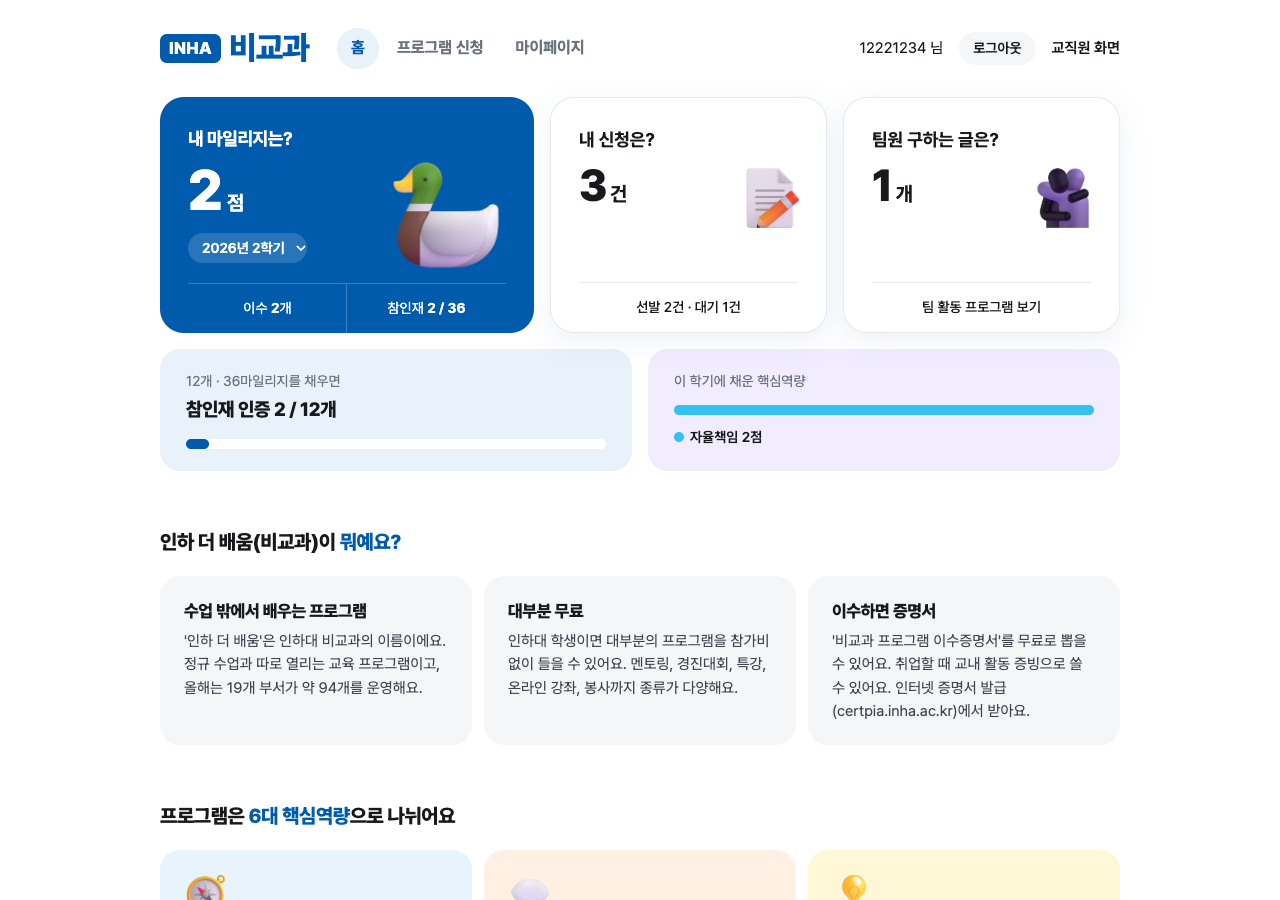
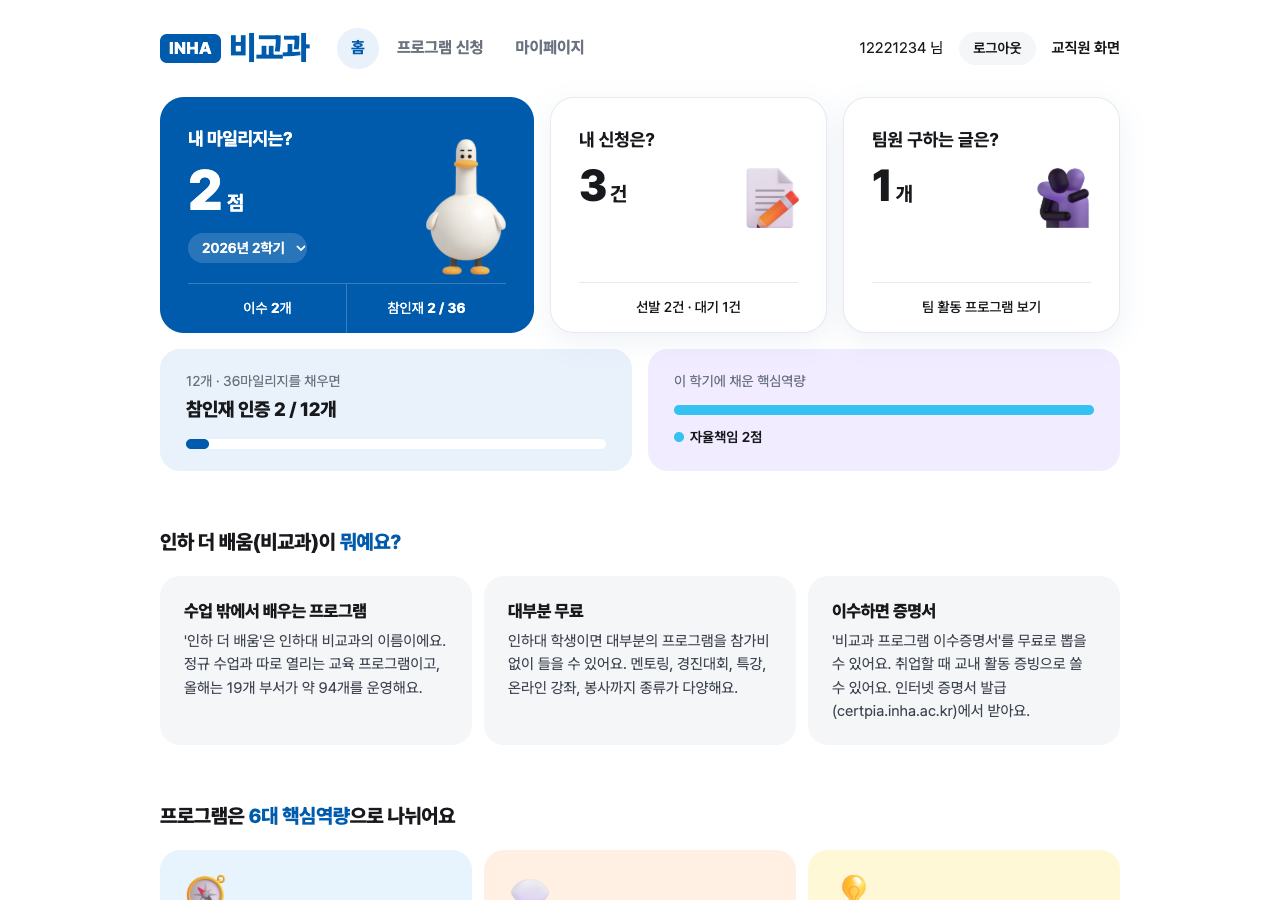
style: 홈의 오리 그림을 인하대 마스코트 인덕으로 교체

Changed region(s): [[0.3125, 0.1556, 0.4062, 0.3111]]

diff --git a/index.html b/index.html
@@ -5,7 +5,7 @@
 <meta name="viewport" content="width=device-width, initial-scale=1">
 <title>인하 비교과 마일리지</title>
 <link rel="stylesheet" href="https://cdn.jsdelivr.net/gh/orioncactus/pretendard@v1.3.9/dist/web/variable/pretendardvariable-dynamic-subset.min.css">
-<link rel="stylesheet" href="css/style.css?v=14">
+<link rel="stylesheet" href="css/style.css?v=15">
 </head>
 <body>
 <main>
@@ -34,7 +34,8 @@
           <select id="term" aria-label="내 마일리지 학기"></select>
         </div>
         <!-- 공식 캐릭터 대신 쓰는 임시 그림 (Fluent Emoji 오리). 허락받은 캐릭터 파일이 오면 교체. -->
-        <img class="mascot" src="assets/icons/duck.png" alt="">
+        <!-- 인하대 공식 마스코트 인덕(저작권: 인하대학교). 사용 조건은 assets/mascot/README.txt 참고. -->
+        <img class="mascot" src="assets/mascot/induck-front.png" alt="인하대학교 마스코트 인덕">
       </div>
       <ul class="hero-links">
         <li>이수 <b id="heroCount">0</b>개</li>
@@ -160,9 +161,9 @@
       확정 마일리지는 인하포털 → 학사행정 → 비교과과정에서 확인하세요.</p>
   </div>
 </footer>
-<script src="js/data.js?v=14"></script>
-<script src="js/logic.js?v=14"></script>
-<script src="js/common.js?v=14"></script>
-<script src="js/home.js?v=14"></script>
+<script src="js/data.js?v=15"></script>
+<script src="js/logic.js?v=15"></script>
+<script src="js/common.js?v=15"></script>
+<script src="js/home.js?v=15"></script>
 </body>
 </html>

diff --git a/mypage.html b/mypage.html
@@ -5,7 +5,7 @@
 <meta name="viewport" content="width=device-width, initial-scale=1">
 <title>마이페이지 · 인하 비교과 마일리지</title>
 <link rel="stylesheet" href="https://cdn.jsdelivr.net/gh/orioncactus/pretendard@v1.3.9/dist/web/variable/pretendardvariable-dynamic-subset.min.css">
-<link rel="stylesheet" href="css/style.css?v=14">
+<link rel="stylesheet" href="css/style.css?v=15">
 </head>
 <body>
 <main class="my">
@@ -59,9 +59,9 @@
   <ul id="myComments" class="posts" aria-labelledby="comments-title"></ul>
   <p id="commentsEmpty" class="empty">아직 쓴 댓글이 없어요.</p>
 </main>
-<script src="js/data.js?v=14"></script>
-<script src="js/logic.js?v=14"></script>
-<script src="js/common.js?v=14"></script>
-<script src="js/mypage.js?v=14"></script>
+<script src="js/data.js?v=15"></script>
+<script src="js/logic.js?v=15"></script>
+<script src="js/common.js?v=15"></script>
+<script src="js/mypage.js?v=15"></script>
 </body>
 </html>

diff --git a/programs.html b/programs.html
@@ -5,7 +5,7 @@
 <meta name="viewport" content="width=device-width, initial-scale=1">
 <title>프로그램 신청 · 인하 비교과 마일리지</title>
 <link rel="stylesheet" href="https://cdn.jsdelivr.net/gh/orioncactus/pretendard@v1.3.9/dist/web/variable/pretendardvariable-dynamic-subset.min.css">
-<link rel="stylesheet" href="css/style.css?v=14">
+<link rel="stylesheet" href="css/style.css?v=15">
 </head>
 <body>
 <main>
@@ -53,9 +53,9 @@
       확정 마일리지는 인하포털 → 학사행정 → 비교과과정에서 확인하세요.</p>
   </div>
 </footer>
-<script src="js/data.js?v=14"></script>
-<script src="js/logic.js?v=14"></script>
-<script src="js/common.js?v=14"></script>
-<script src="js/programs.js?v=14"></script>
+<script src="js/data.js?v=15"></script>
+<script src="js/logic.js?v=15"></script>
+<script src="js/common.js?v=15"></script>
+<script src="js/programs.js?v=15"></script>
 </body>
 </html>

diff --git a/team.html b/team.html
@@ -5,7 +5,7 @@
 <meta name="viewport" content="width=device-width, initial-scale=1">
 <title>팀원 구하기 · 인하 비교과 마일리지</title>
 <link rel="stylesheet" href="https://cdn.jsdelivr.net/gh/orioncactus/pretendard@v1.3.9/dist/web/variable/pretendardvariable-dynamic-subset.min.css">
-<link rel="stylesheet" href="css/style.css?v=14">
+<link rel="stylesheet" href="css/style.css?v=15">
 </head>
 <body>
 <main>
@@ -32,8 +32,8 @@
   <ul id="posts" class="posts" aria-labelledby="posts-title"></ul>
   <p id="empty" class="empty">아직 글이 없어요. 첫 글을 써보세요.</p>
 </main>
-<script src="js/data.js?v=14"></script>
-<script src="js/logic.js?v=14"></script>
-<script src="js/team.js?v=14"></script>
+<script src="js/data.js?v=15"></script>
+<script src="js/logic.js?v=15"></script>
+<script src="js/team.js?v=15"></script>
 </body>
 </html>

diff --git a/css/style.css b/css/style.css
@@ -62,7 +62,7 @@ input:not([type=checkbox], [type=radio]):focus-visible, textarea:focus-visible, 
 .total small { font-size: 1.25rem; font-weight: 700; letter-spacing: 0; }
 .hero select { font: inherit; font-size: .875rem; font-weight: 600; color: #fff; background: rgb(255 255 255 / .16); border: 0; border-radius: 999px; padding: 6px 10px; margin-bottom: 20px; }
 .hero select option { color: var(--ink); }
-.mascot { width: 120px; flex: none; margin-bottom: 8px; }
+.mascot { height: 136px; width: auto; flex: none; margin-bottom: 8px; }
 .hero-links { list-style: none; margin: 0; padding: 0; display: flex; border-top: 1px solid rgb(255 255 255 / .22); font-size: .875rem; }
 .hero-links li { flex: 1; text-align: center; padding: 14px 4px; }
 .hero-links li + li { box-shadow: -1px 0 0 rgb(255 255 255 / .22); }

diff --git a/admin.html b/admin.html
@@ -5,7 +5,7 @@
 <meta name="viewport" content="width=device-width, initial-scale=1">
 <title>교직원 화면 (시연용) · 인하 비교과 마일리지</title>
 <link rel="stylesheet" href="https://cdn.jsdelivr.net/gh/orioncactus/pretendard@v1.3.9/dist/web/variable/pretendardvariable-dynamic-subset.min.css">
-<link rel="stylesheet" href="css/style.css?v=14">
+<link rel="stylesheet" href="css/style.css?v=15">
 </head>
 <body>
 <main>
@@ -52,8 +52,8 @@
     <button type="button" id="clear">모두 지우기</button>
   </div>
 </main>
-<script src="js/data.js?v=14"></script>
-<script src="js/logic.js?v=14"></script>
-<script src="js/admin.js?v=14"></script>
+<script src="js/data.js?v=15"></script>
+<script src="js/logic.js?v=15"></script>
+<script src="js/admin.js?v=15"></script>
 </body>
 </html>

diff --git a/login.html b/login.html
@@ -5,7 +5,7 @@
 <meta name="viewport" content="width=device-width, initial-scale=1">
 <title>로그인 · 인하 비교과 마일리지</title>
 <link rel="stylesheet" href="https://cdn.jsdelivr.net/gh/orioncactus/pretendard@v1.3.9/dist/web/variable/pretendardvariable-dynamic-subset.min.css">
-<link rel="stylesheet" href="css/style.css?v=14">
+<link rel="stylesheet" href="css/style.css?v=15">
 </head>
 <body class="login">
   <section class="login-art">
